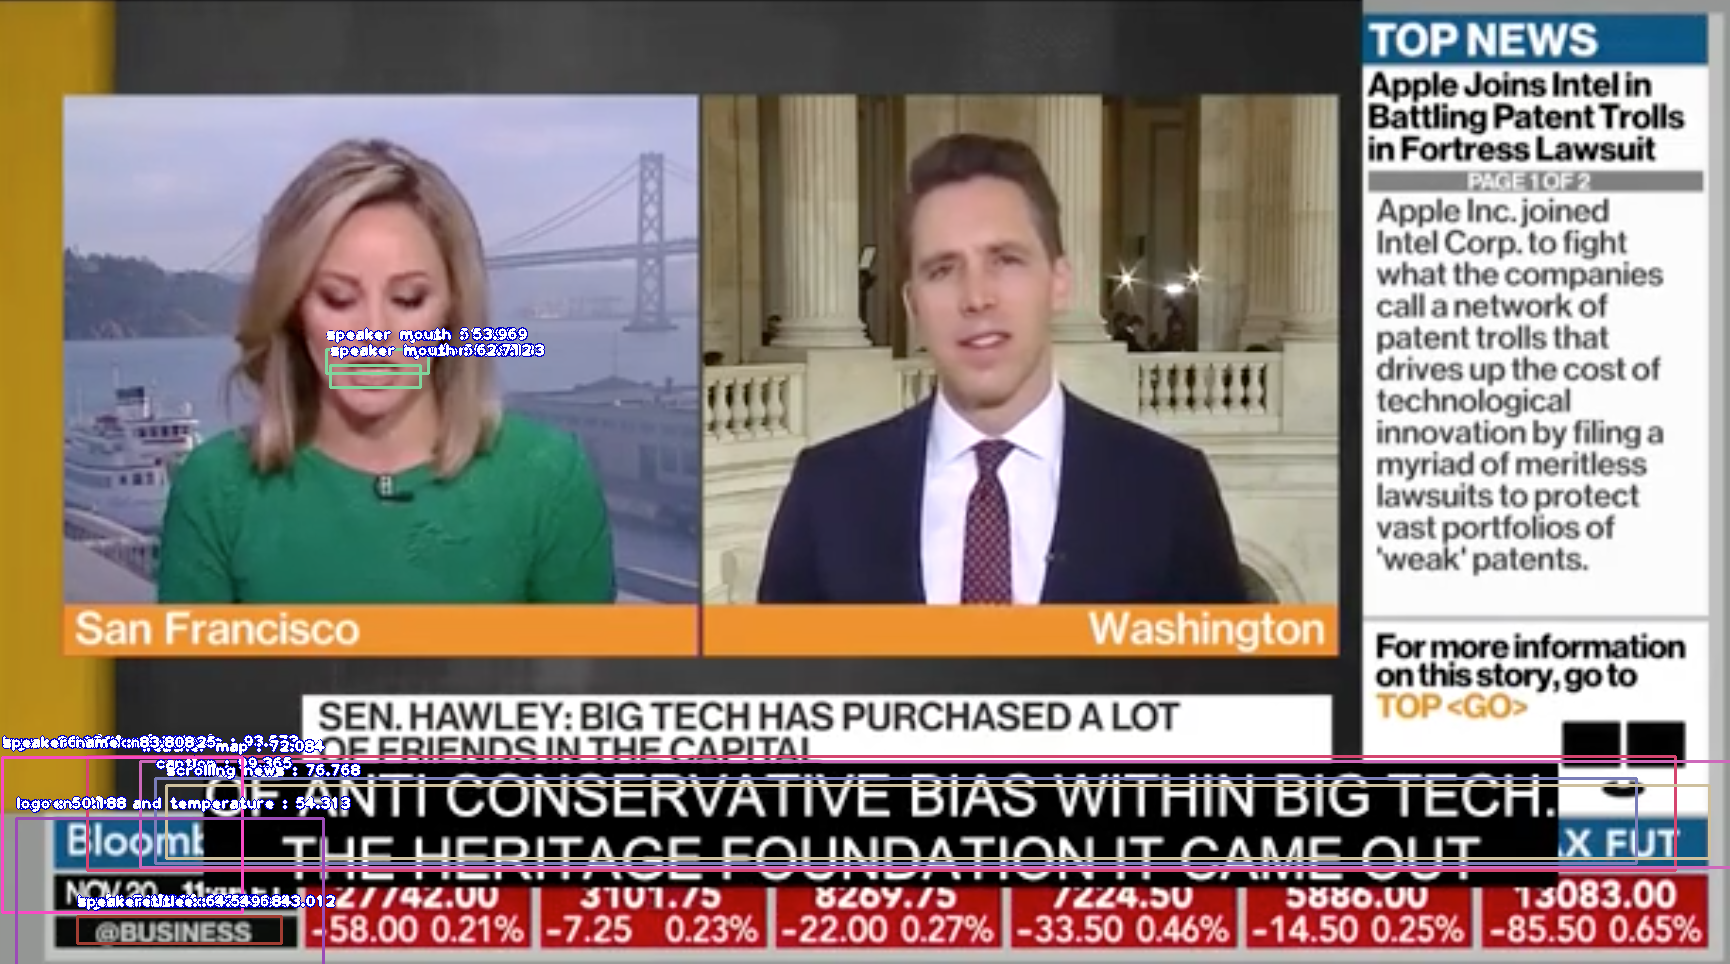
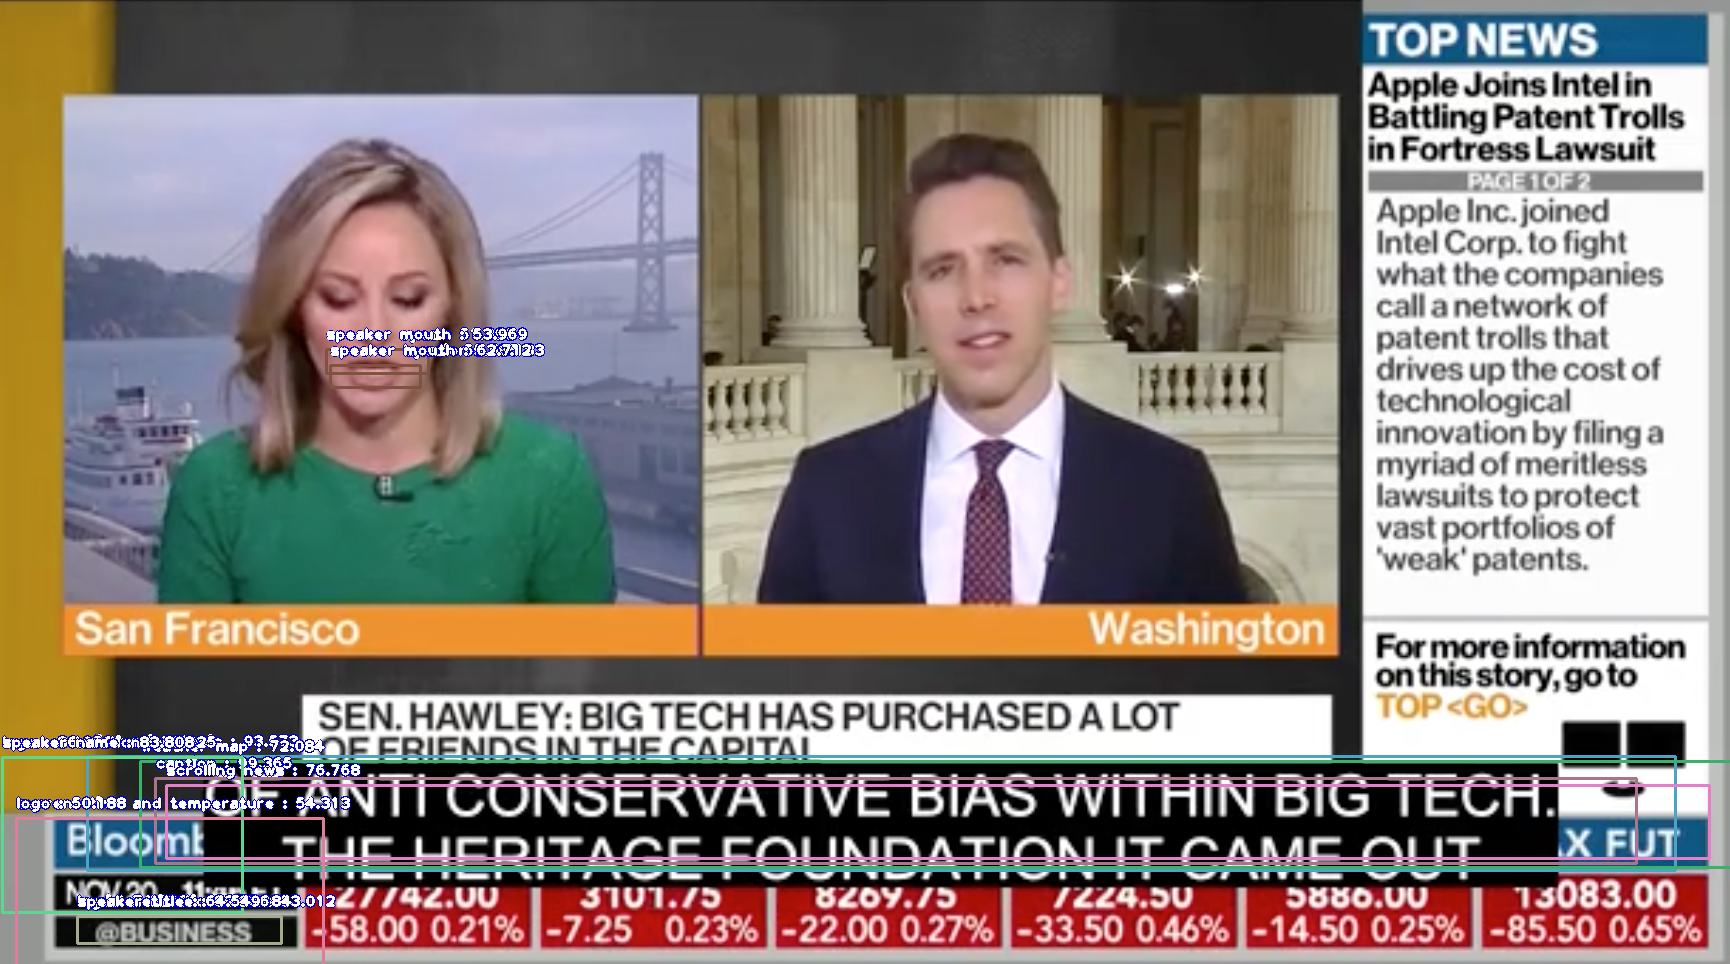
result text generated.

Changed region(s): [[0.0, 0.778, 0.9988, 0.9647], [0.1873, 0.3734, 0.2497, 0.4046]]

diff --git a/InformationRegionRetrieval.py b/InformationRegionRetrieval.py
@@ -26,26 +26,26 @@ def box_area(boxA, boxB):
     boxAArea = abs((boxA[2] - boxA[0]) * (boxA[3] - boxA[1]))
     boxBArea = abs((boxB[2] - boxB[0]) * (boxB[3] - boxB[1]))
 
-    # compute the intersection over union by taking the intersection
-    # area and dividing it by the sum of prediction + ground-truth
-    # areas - the interesection area
-    iou = interArea / float(boxAArea + boxBArea - interArea)
 
+    # areas - the interesection area
+    # iou = interArea / float(boxAArea + boxBArea - interArea)
+    iou = interArea/ float(boxBArea)
     # return the intersection over union value
     return iou
 
 def informationRegionRetrievalFromImage():
     print(args.get("img_name"))
-    Objects = []
-
+    # Objects = []
+    # model configuration
     detector = CustomObjectDetection()
     detector.setModelTypeAsYOLOv3()
     detector.setModelPath("Dataset_V2/models/detection_model-ex-070--loss-0015.701.h5")
     detector.setJsonPath("Dataset_V2/json/detection_config.json")
     detector.loadModel()
+    # detect objects from an image without caption on the screen
     detections = detector.detectObjectsFromImage(input_image=args.get("img_without_caption"), output_image_path="Output_Frames/"+args.get("img_without_caption"))
 
-
+    # detect caption from an image with caption on the screen
     caption_detections = detector.detectObjectsFromImage(input_image=args.get("img_with_caption"),
                                                  output_image_path="Output_Frames/" + args.get("img_with_caption"))
 
@@ -53,17 +53,19 @@ def informationRegionRetrievalFromImage():
         if detection["name"] == "caption":
             print(detection["name"], " : ", detection["percentage_probability"], " : ", detection["box_points"])
             print(type(detection["box_points"]))
+            #save boxpoint for caption
             Caption = detection["box_points"]
-    result_file = open("result.text", "w+")
+
+    result_file = open("result.txt", "w+")
     for detection in detections:
         if detection["percentage_probability"]>=90:
 
             print(detection["name"], " : ", detection["percentage_probability"], " : ", detection["box_points"])
-            Objects.append(detection["box_points"])
+            # Objects.append(detection["box_points"])
 
             print(box_area(Caption, detection["box_points"]))
             area = box_area(Caption, detection["box_points"])
-            result_file.write(detection["name"] + "Occlusion Area with caption: " + area)
+            result_file.write(detection["name"] + "- Occlusion Area with Caption: " + str(area)+"\n")
 
 
 
